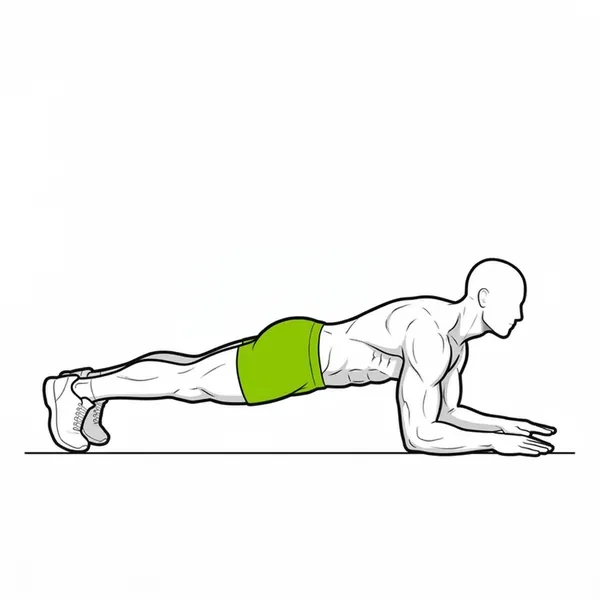
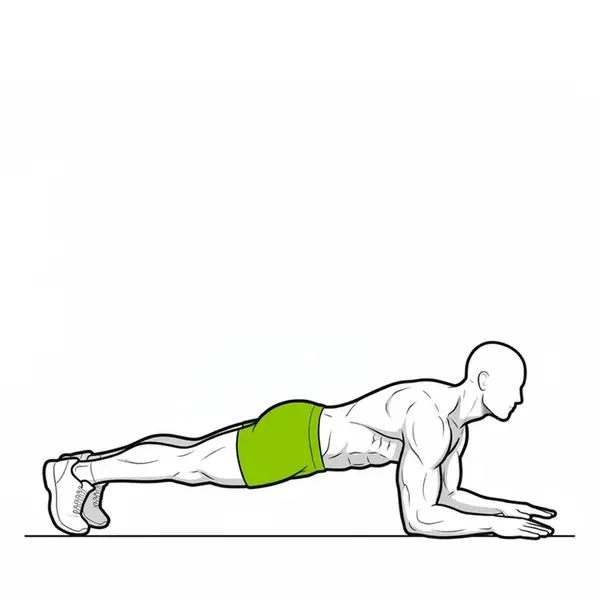
Exercise art: align new images to the reference floor line; mountain climbers as plank -> knee drive

Changed region(s): [[0.03, 0.42, 0.96, 0.9], [0.87, 0.6, 0.9, 0.66], [0.87, 0.45, 0.9, 0.51]]

diff --git a/tools/exercise-art/generate.py b/tools/exercise-art/generate.py
@@ -62,7 +62,15 @@ def draw(model, refs, prompt):
             return im.resize((600, 600), Image.LANCZOS)
     raise RuntimeError("no image in reply: " + json.dumps(out)[:400])
 
-def save(im, p): im.save(p, "WEBP", quality=82, method=6)
+FLOOR = 536  # floor-line row in goblet-squat-*.webp at 600px; the model drifts, so we shift to match
+def align(im):
+    g = im.convert("L"); w, h = g.size; px = g.load()
+    dark = [sum(px[x, y] < 110 for x in range(0, w, 2)) for y in range(h // 2, h)]
+    r = h // 2 + dark.index(max(dark))
+    if max(dark) < w // 6: return im  # no clear floor line found: leave as drawn
+    out = Image.new("RGB", (w, h), "white"); out.paste(im, (0, FLOOR - r)); return out
+
+def save(im, p): align(im).save(p, "WEBP", quality=82, method=6)
 
 def generate():
     if not KEY: sys.exit("No API key: add the repository secret VOICE (Google AI Studio key).")
